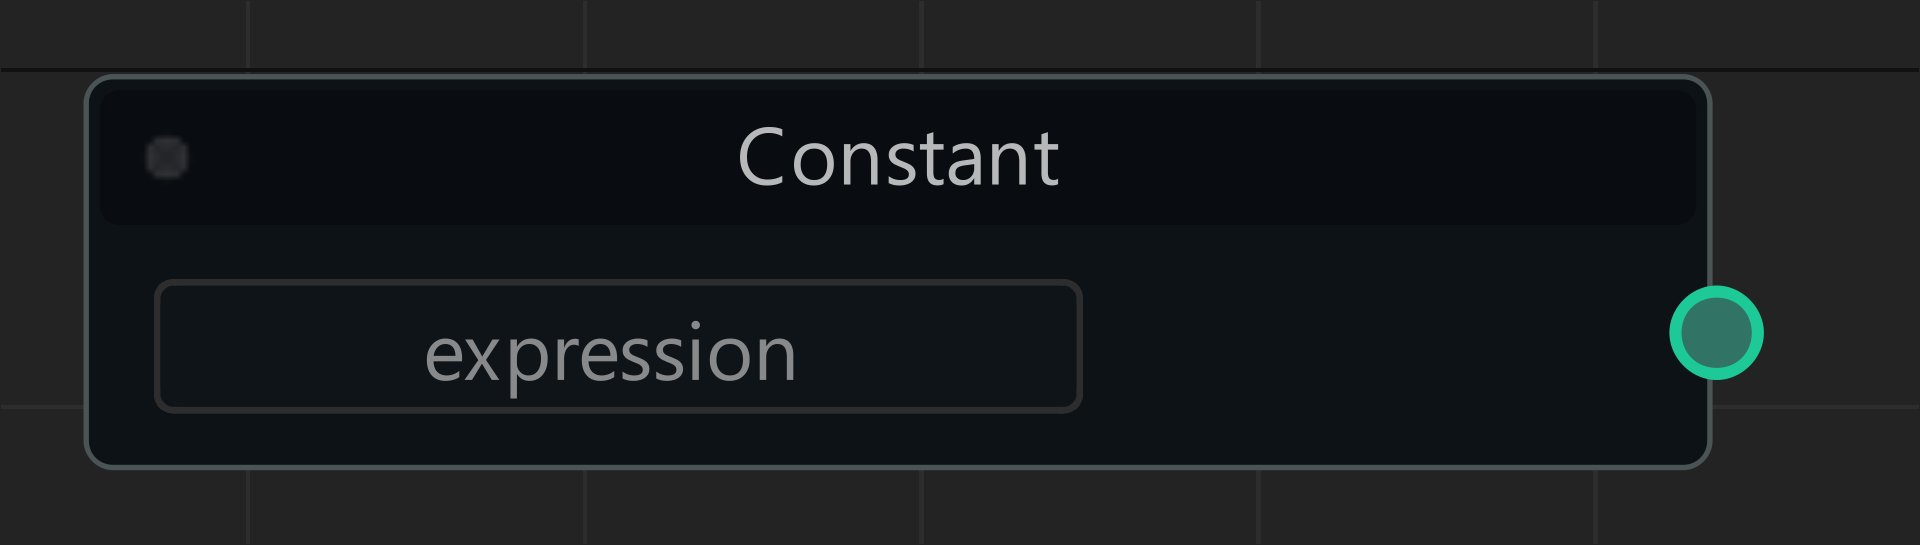
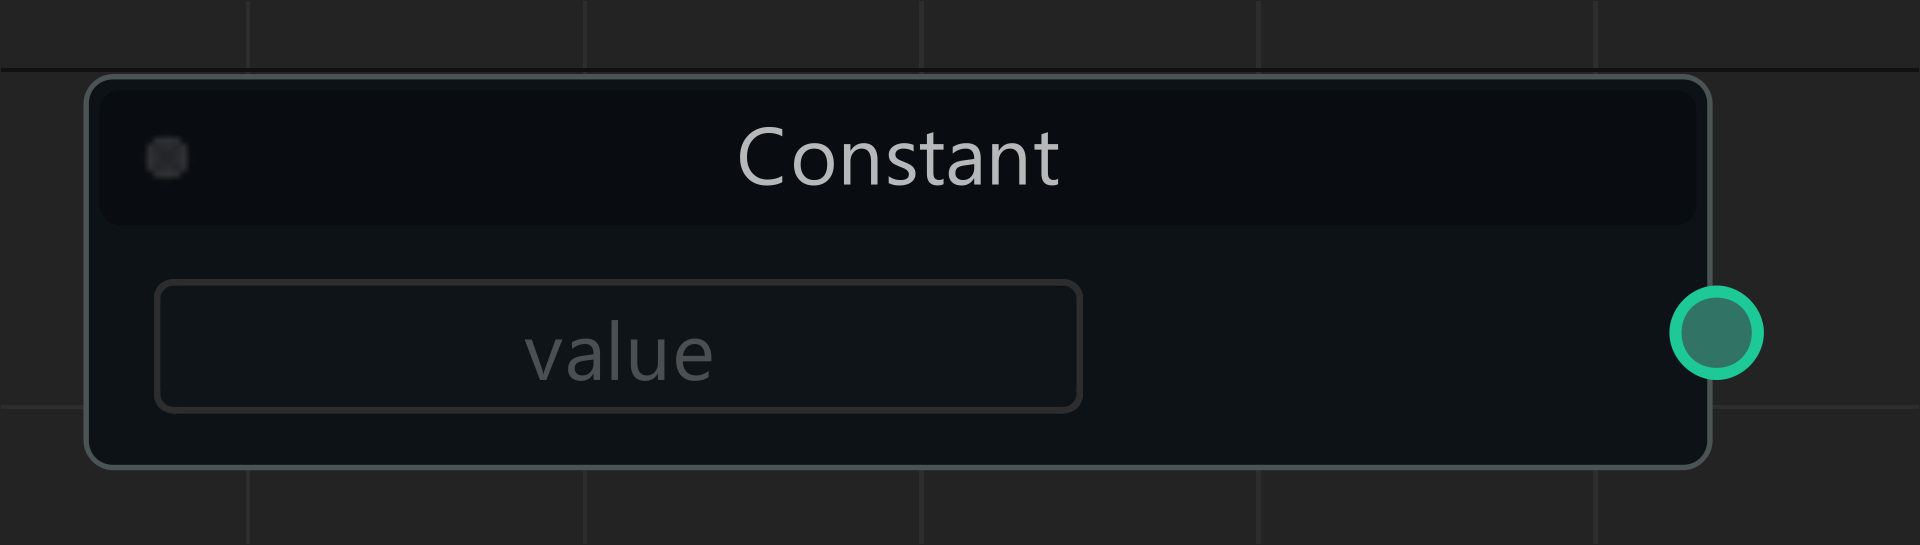
Update text inside constant node image

Changed region(s): [[0.2188, 0.5927, 0.4375, 0.7174]]

diff --git a/doc/source/generate_figures/__main__.py b/doc/source/generate_figures/__main__.py
@@ -16,14 +16,14 @@ from caqtus.shot_compilation import ShotContext, SequenceContext
 from caqtus.types.expression import Expression
 from caqtus.types.timelane import TimeLanes, AnalogTimeLane, Ramp
 from doc.source.generate_figures.screen_shot_time_lanes import screenshot_time_lanes
-from .screenshot_output_graph import screenshot_output, screenshot_node
+from screenshot_output_graph import screenshot_output, screenshot_node
 
 
 def generate_for_constant():
     output = Constant(Expression("10 V"))
     screenshot_output(output, "images/sequencer_outputs/constant_graph.png")
     node = ConstantNode()
-    node.set_value(Expression("expression"))
+    node.set_value(Expression(""))
     screenshot_node(node, "images/sequencer_outputs/constant_node.png")
 
     sequence_context = SequenceContext({}, TimeLanes(["step1"], [Expression("2 s")]))
